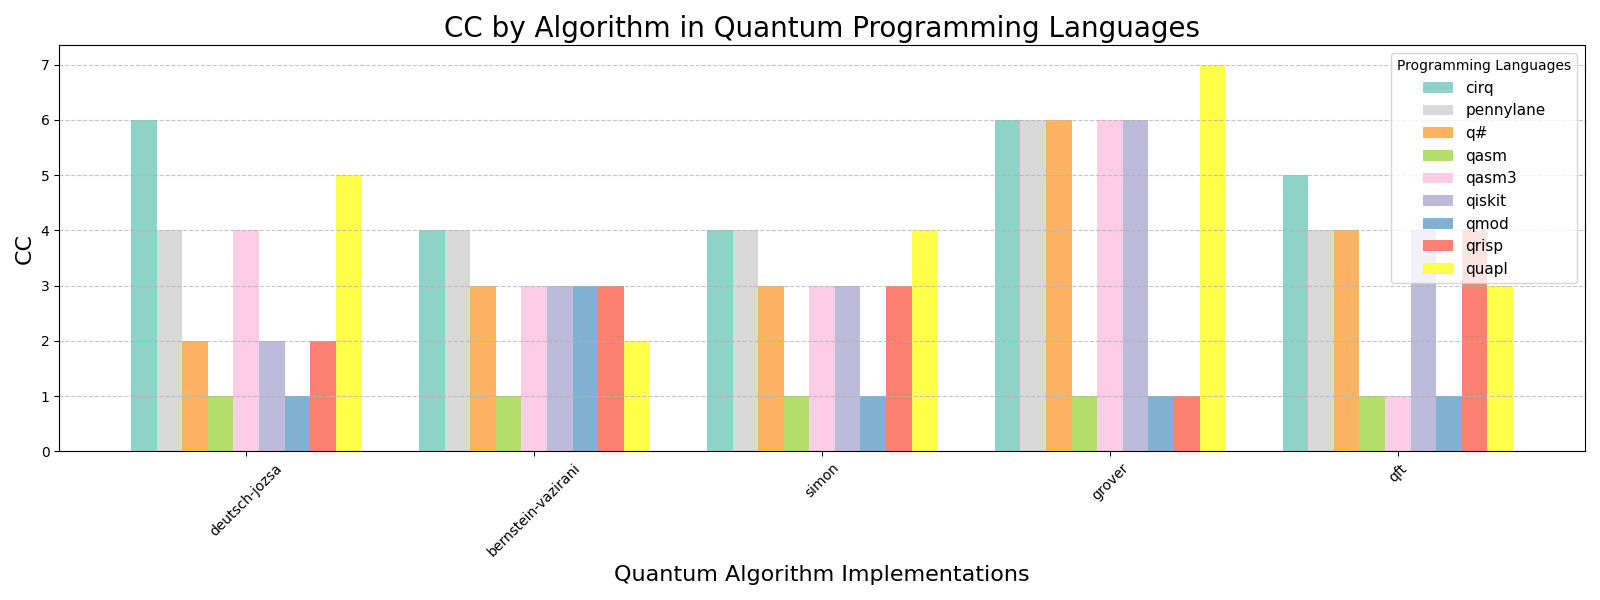
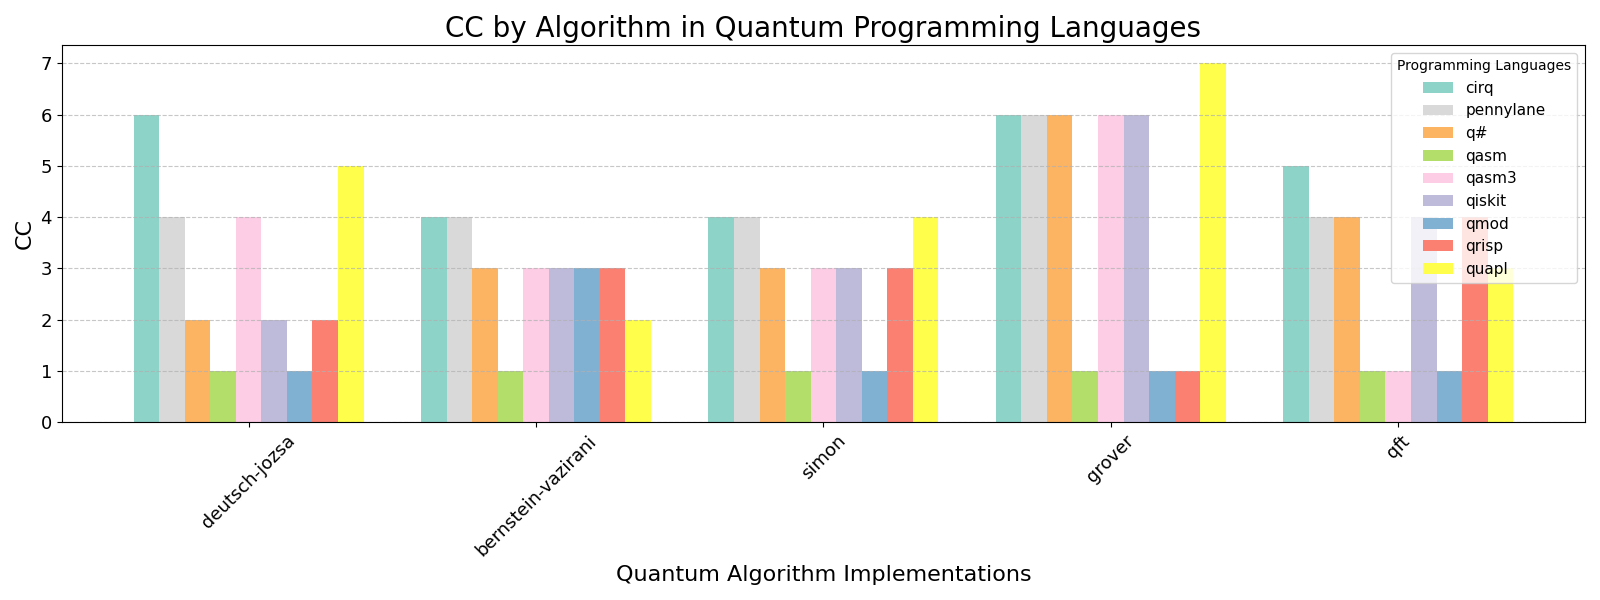
Last changes in results

diff --git a/evaluation_metrics/plotting/plot_style.py b/evaluation_metrics/plotting/plot_style.py
@@ -53,24 +53,26 @@ class PlotStyleManager:
             loc='upper left',
             bbox_to_anchor=(1.02, 1),
             borderaxespad=0,
-            frameon=False
+            frameon=True,
+            framealpha=0.4
         )
 
     def style_ticks(self, ax, x_rotation=45, y_rotation=0):
-        ax.tick_params(axis='x', rotation=x_rotation)
-        ax.tick_params(axis='y', rotation=y_rotation)
+        ax.tick_params(axis='x', rotation=x_rotation, labelsize=13)
+        ax.tick_params(axis='y', rotation=y_rotation, labelsize=13)
         
 
-    def style_axes(self, ax, title: str, xlabel: str, ylabel: str, legend_title: str = "Programming Languages", title_fontsize=20, label_fontsize=16):
+    def style_axes(self, ax, title: str, xlabel: str, ylabel: str, legend_title: str = "Programming Languages", title_fontsize=20, label_fontsize=16, show_legend: bool = True):
         ax.set_title(title, fontsize=title_fontsize)
         ax.set_xlabel(xlabel, fontsize=label_fontsize)
         ax.set_ylabel(ylabel, fontsize=label_fontsize)
         self.style_ticks(ax)
         ax.grid(axis='y', linestyle='--', alpha=0.7)
-        ax.legend(
-            title=legend_title,
-            loc='best',
-            frameon=True,
-            fontsize=11
-        )
+        if show_legend:
+            ax.legend(
+                title=legend_title,
+                loc='best',
+                frameon=True,
+                fontsize=11
+            )
 

diff --git a/evaluation_metrics/plotting/ratio_plot.py b/evaluation_metrics/plotting/ratio_plot.py
@@ -90,16 +90,15 @@ class RatioPlot(PlotBase):
             palette=color_map,
             s=150,
             ax=ax,
-            style="Language",
-            markers=True,
-            edgecolor="black"
+            edgecolor="black",
+            legend=False
         )
         for i in range(df_mean.shape[0]):
             plt.text(
                 x=df_mean["CC_LOC_Ratio"][i] * 1.01,
                 y=df_mean["Effort_LOC_Ratio"][i],
                 s=df_mean["Language"][i],
-                fontdict=dict(color='black', size=10)
+                fontdict=dict(color='black', size=15)
             )
         # Estilizar los ejes
         self.style_manager.style_axes(
@@ -107,11 +106,12 @@ class RatioPlot(PlotBase):
             title="Control Flow Density vs. Cognitive Load per Line",
             xlabel="Control Flow Density (CC / LOC)",
             ylabel="Cognitive Load per Line (Effort / LOC)",
-            legend_title="Programming Languages"
+            show_legend=False
+            
         )        
         # Move the legend outside the plot
-        ax.legend(title="Programming Languages", loc='upper left', bbox_to_anchor=(1.02, 1), borderaxespad=0)
-        plt.tight_layout(rect=[0, 0, 0.85, 1])
+        #ax.legend(title="Programming Languages", loc='upper left')
+        plt.tight_layout()
         if save_file_name:
             full_path = GRAPHICS_PATH + save_file_name
             plt.savefig(full_path)

diff --git a/evaluation_metrics/plotting/halstead_plot.py b/evaluation_metrics/plotting/halstead_plot.py
@@ -143,7 +143,8 @@ class HalsteadPlot(PlotBase):
                 hue="Language",
                 s=100,
                 ax=ax,
-                palette=self.style_manager.get_color_map(df_grouped["Language"].unique())
+                palette=self.style_manager.get_color_map(df_grouped["Language"].unique()),
+                legend=False
             )
             for j in range(df_grouped.shape[0]):
                 ax.text(df_grouped[x].iloc[j] + 0.5, df_grouped[y].iloc[j], str(df_grouped["Language"].iloc[j]), fontsize=10)

diff --git a/evaluation_metrics/plotting/loc_plot.py b/evaluation_metrics/plotting/loc_plot.py
@@ -33,7 +33,9 @@ class LocPlot(PlotBase):
             ax,
             title="Mean LOC by Algorithm Across Quantum Programming Languages",
             xlabel="Quantum Programming Languages",
-            ylabel="Mean LOC")
+            ylabel="Mean LOC",
+            show_legend=False
+        )
         plt.tight_layout()
         if save_file_name:
             plt.savefig(GRAPHICS_PATH + save_file_name)

diff --git a/evaluation_metrics/plotting/cc_plot.py b/evaluation_metrics/plotting/cc_plot.py
@@ -35,7 +35,8 @@ class CCPlot(PlotBase):
             ax,
             title="Mean CC by Algorithm Across Quantum Programming Languages",
             xlabel="Quantum Programming Languages",
-            ylabel="Mean CC"
+            ylabel="Mean CC",
+            show_legend=False
         )
         plt.tight_layout()
         if save_file_name:
